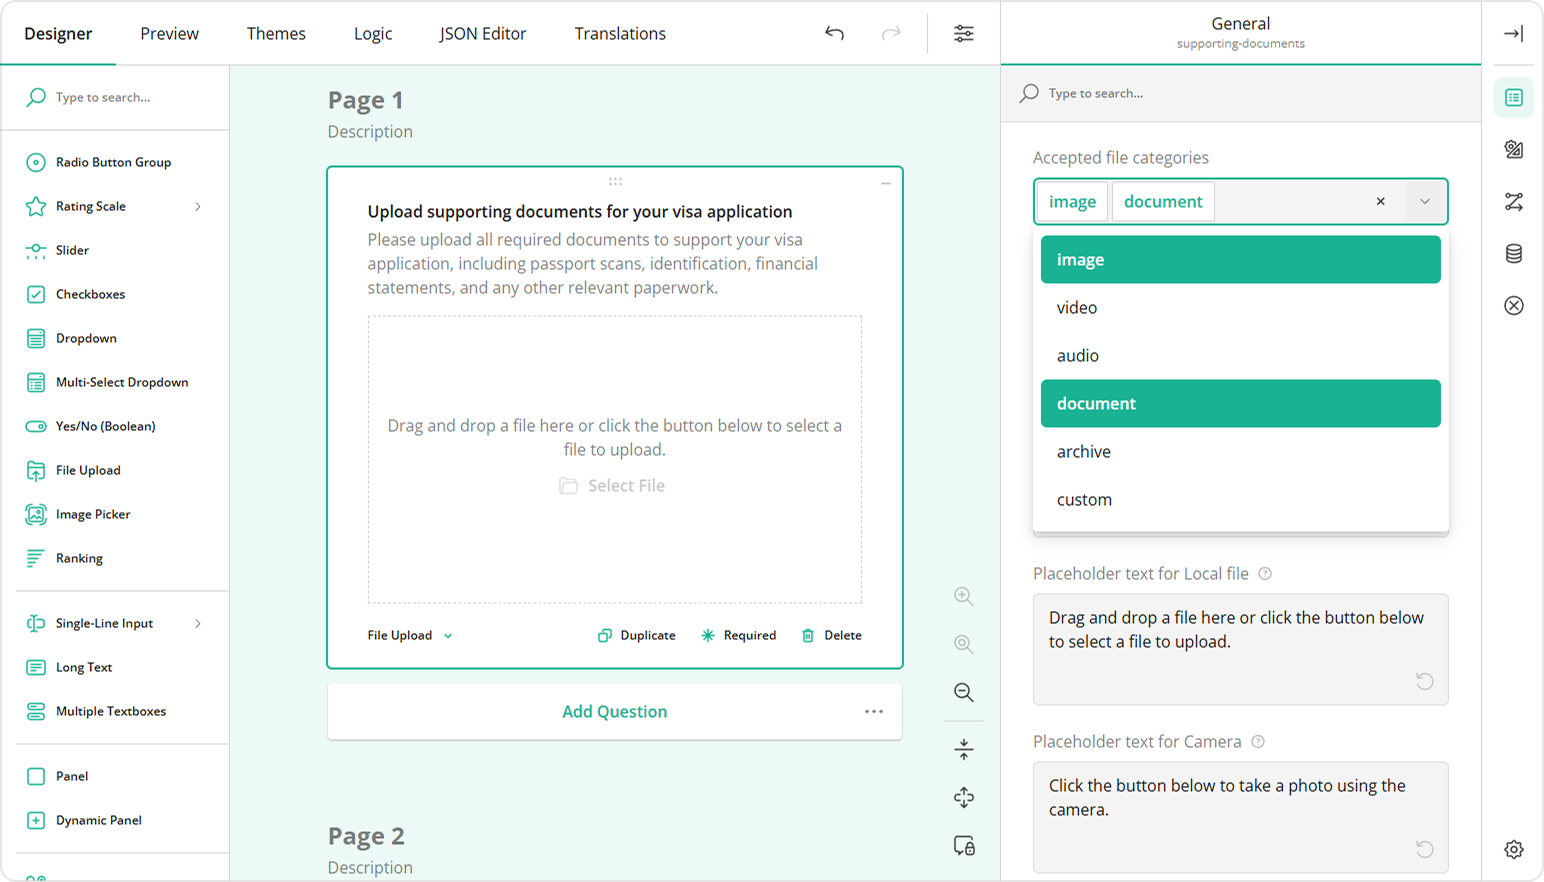
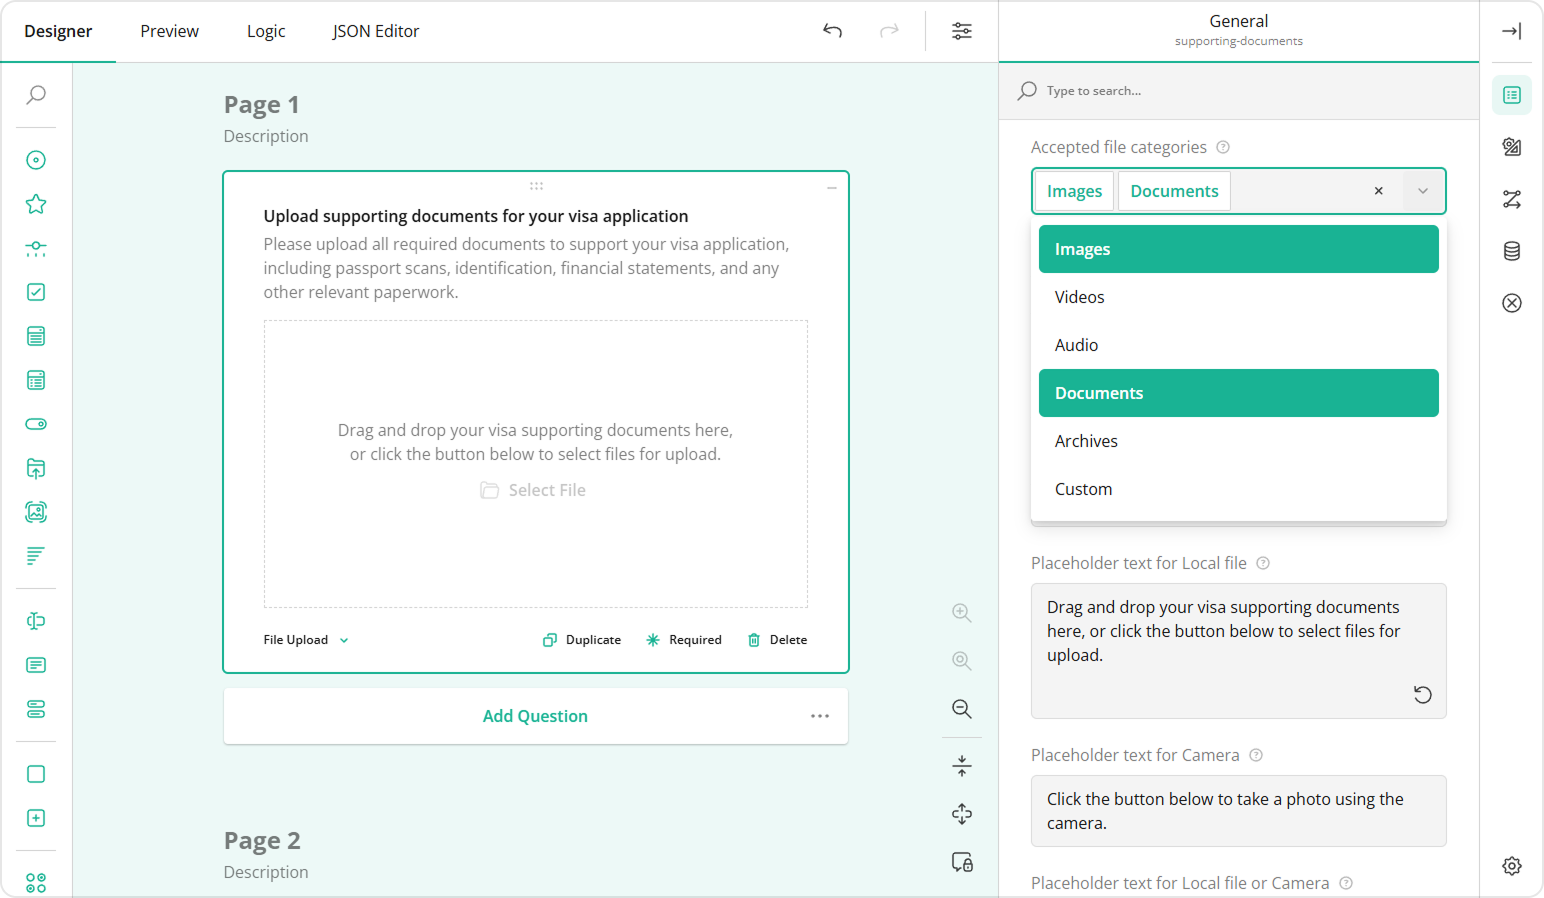
updated survey-creator docs [azurepipelines skip]

diff --git a/docs/end-user-guide-create-form-with-file-upload.md b/docs/end-user-guide-create-form-with-file-upload.md
@@ -1,54 +1,53 @@
 ---
 title: How to Create a Form with File Upload
-description: In this guide, we’ll show how to add and configure the File Upload question in SurveyJS form builder, including its file sources, upload limits, accepted file types, image settings, and other customization options.
+description: In this guide, we'll show how to add and configure the File Upload question in SurveyJS form builder, including its file sources, upload limits, accepted file types, image settings, and other customization options.
 ---
 
 # How to Create a Form with File Upload
 
 ## About File Upload Questions
 
-Adding a File Upload question to a form allows respondents to submit supporting files directly. This keeps all collected data in one place and reduces the need to request files separately via email or other channels. Respondents can provide documents, images, or other file types as part of their response.
+Adding a File Upload question to a form allows respondents to attach supporting files directly to the form. This keeps all collected data in one place and reduces the need to request files separately via email or other channels. Respondents can provide documents, images, or other file types as part of their response.
 
-SurveyJS is a [front-end solution](https://surveyjs.io/documentation/backend-integration) that allows you to collect data on the client side and send it to your own database. Because of this architecture, **there are no storage limits from our side**. Unlike many SaaS survey platforms such as Google Forms, when you use SurveyJS, you can allow your respondents to upload as many files as needed.
+Unlike with many SaaS survey platforms such as Google Forms, when you use SurveyJS, you store data in your own database. Because of this architecture, **there are no storage limits from our side**, and you can allow your respondents to upload as many files as needed.
 
-Our File Upload question comes with a wide range of customization options. These options let you control the file source, the number of files allowed, file types, file size limits, image display settings, and more. This guide explains all available file upload settings and how to configure them in a form.
+Our File Upload question comes with a wide range of customization options that let you control the file source, the number of files allowed, file types, file size limits, image display settings, and more. This guide explains all available file upload settings and how to configure them in a form.
 
 ## How to Add a File Upload Question to Your Form
 
-1. Drag a **File Upload** question to your form from the Toolbox.
+### Add the File Upload Element
 
-2. Assign a **Question name, title and description** to let respondents know what type of files to upload.<br>
-   <img src="../images/eud-title-description.png" alt='Add title and description to your File Upload question.' width="1544" height="942">
+Drag the **File Upload** question to your form from the Toolbox and specify the **Question name, title and description** to let respondents know what type of files to upload.
 
-4. Set the **File source type**:
+<img src="images/eud-title-description.png" alt='Add title and description to your File Upload question.' width="1544" height="942">
 
-   - **Local file**&mdash;uploads files from the respondent’s device.
+### Select the File Source Type
 
-   - **Camera**&mdash;takes a photo or video directly from a device camera.
+File Upload supports the following source types:
 
-   - **Local file or Camera**&mdash;allows the respondent to use both options.<br>
-   <img src="../images/eud-file-source-file.png" alt='Set a file source type for your File Upload question.' width="1544" height="878">
-   
-   When this option is enabled, the respondent will see two buttons that let them either activate their device camera or access their local files.<br>
-   <img src="../images/eud-local-file-camera.png" alt='File Upload question with two enabled file source types: Camera and Local file.' width="1544" height="770">
+- **Local file** - Uploads files from the respondent's device.
+- **Camera** - Takes a photo or video directly from a device camera.
+- **Local file or Camera** - Allows the respondent to use both options.
 
-5. **Enable multiple file upload** if you want respondents to select and add several files at once.
+<img src="images/eud-file-source-file.png" alt='Set a file source type for your File Upload question.' width="1544" height="878">
 
-6. **Set the maximum number of files** a respondent is allowed to upload. By default, this is 1000 items.<br>
-   <img src="../images/eud-max-files.png" alt='Enable multiple file upload and set the maximum number of files allowed.' width="1544" height="884">
+When the **Local file or Camera** option is enabled, the respondent sees two buttons that let them either activate their device camera or access their local files.
 
-8. **Preview uploaded images** enables or disables the preview of uploaded image files.<br>
-   <img src="../images/eud-disable-image-preview.png" alt='Uploaded images with disabled preview.' width="1544" height="768">
+<img src="images/eud-local-file-camera.png" alt='File Upload question with two enabled file source types: Local file and Camera.' width="1544" height="770">
 
-10. **Wait for upload to complete** prevents respondents from proceeding to the next page or submitting the form without waiting for all uploaded files to finish loading. We recommend keeping this setting enabled to prevent unintended data loss.
+### Enable Multiple File Upload
 
-11. **Confirm file deletion** displays a confirmation popup when a user removes an uploaded file.<br>
-   <img src="../images/confirmation-popup.png" alt='Confirmation popup shown when an uploaded file is being deleted.' width="1542" height="766">
+Select the **Enable multiple file upload** checkbox if you want respondents to attach more than one file to your form. Optionally, set the **Maximum number of files** a respondent is allowed to upload. By default, this is 1000 items.
 
-12. When **Store file content in JSON result as text** is enabled, all uploaded files, including images, are stored in the survey results JSON schema as Base64 URLs. If you are collecting large images, which could significantly increase the size of the result file, we recommend uploading images directly to your server and only saving image links in the survey results. Refer to this [demo guide](https://surveyjs.io/survey-creator/examples/file-upload/documentation) to learn more.
+<img src="images/eud-max-files.png" alt='Enable multiple file upload and set the maximum number of files allowed.' width="1544" height="884">
 
-13. **Accepted file categories** defines which file type groups respondents are allowed to upload. Please refer to the table below to see specific file types included in each category.<br>
-   <img src="../images/eud-accepted-file-types.png" alt='Select one or several file type categories that your File Upload question will accept.' width="1544" height="882">
+### Specify Accepted File Types
+
+**Accepted file categories** defines which file type groups respondents are allowed to upload.
+
+<img src="images/eud-accepted-file-types.png" alt='Select one or several file type categories that your File Upload question will accept.' width="1544" height="898">
+
+The table below shows specific file types included in each category.
 
 | Category | Allowed File Types |
 | ----- | ----- |
@@ -58,10 +57,13 @@ Our File Upload question comes with a wide range of customization options. These
 | Audio | .mp3, .m4a, .wav, .ogg, .flac, .wma, .aac |
 | Archives | .zip, .rar, .7z, .tar, .gz |
 
-Even though the built-in categories cover the most popular file extensions, you can enter additional file types separated by commas (e.g., .epc, .ai) in the **Additional file extensions** field.<br>
-   <img src="../images/custom-file-type.png" alt='Add custom file extentions that your File Upload question will accept.' width="1544" height="882">
+Even though the built-in categories cover the most popular file extensions, you can enter additional file types separated by commas (e.g., .epc, .ai) in the **Additional file extensions** field. Select **Custom** from **Accepted file categories** for this field to appear.
 
-11. **Maximum file size (in bytes)** allows you to limit the total size of uploaded files. The table below shows common file size units converted into bytes. 
+<img src="images/eud-custom-file-type.png" alt='Add custom file extentions that your File Upload question will accept.' width="1544" height="894">
+
+### Specify Maximum File Size
+
+**Maximum file size (in bytes)** allows you to limit the total size of uploaded files. The table below shows common file size units converted into bytes.
 
 | File Size | Bytes |
 | ----- | ----- |
@@ -69,14 +71,28 @@ Even though the built-in categories cover the most popular file extensions, you 
 | 1 MB | 1,048,576 B |
 | 1 GB | 1,073,741,824 B |
 
-When selected files exceed the allowed value, the respondent will be informed with a validation error message.<br>
-   <img src="../images/eud-file-exceeds-allowed-size.png" alt='The default validation error shown when the size of the selected files exceed the maximum allowed file size.' width="1544" height="770">
+When selected files exceed the allowed value, the respondent will be informed with a validation error message.
 
-12. **Image height** and **Image width** specify the display height and width of uploaded images in the preview and the actual height of images taken with the camera.
+<img src="images/eud-file-exceeds-allowed-size.png" alt='The default validation error shown when the size of the selected files exceed the maximum allowed file size.' width="1544" height="770">
 
-- If the **Enable multiple file upload** is disabled, the display height is limited by the preview area.
+### Configure File Preview
 
-- If the **Enable multiple file upload** is enabled, the display height is limited by the thumbnail area.
+**Preview uploaded images** enables or disables the preview of uploaded image files.
 
-13. You can optionally adjust the placeholder text for the File Upload question depending on the selected file source type.
+<img src="images/eud-disable-image-preview.png" alt='Uploaded images with disabled preview.' width="1544" height="768">
 
+**Image height** and **Image width** specify the display height and width of uploaded images in the preview, as well as the actual height of images taken with the camera. When multiple file upload is disabled, the image's display height is constrained by the preview area; when multiple file upload is enabled, it's constrained by the thumbnail area instead.
+
+### Other Settings
+
+
+- **Wait for upload to complete**\
+Prevents respondents from proceeding to the next page or submitting the form without waiting for all uploaded files to finish loading. We recommend keeping this setting enabled to prevent unintended data loss.
+
+- **Store file content in JSON result as text**\
+When this option is enabled, all uploaded files, including images, are stored in the survey results JSON schema as Base64 URLs. If you are collecting large images, which could significantly increase the size of the result JSON object, we recommend uploading images directly to your server and only saving image links in the survey results. Refer to this [demo guide](https://surveyjs.io/survey-creator/examples/file-upload/documentation) to learn more.
+
+- **Confirm file deletion**\
+Displays a confirmation popup when a user removes an uploaded file.
+
+<img src="images/eud-confirmation-popup.png" alt='Confirmation popup shown when an uploaded file is being deleted.' width="1544" height="770">

diff --git a/docs/end-user-guide-expression-syntax.md b/docs/end-user-guide-expression-syntax.md
@@ -47,17 +47,17 @@ Complex question types (Multiple Textboxes, Dynamic Panel, matrices) and multi-s
         <td colspan="3"><b>Checkboxes</b>, <b>Image Picker</b>, <b>Multiple Textboxes</b>, <b>Ranking</b></td>
       </tr>
       <tr>
-        <td><code>{questionid[index]}</code></td>
+        <td><code>{qid[index]}</code></td>
         <td>Use a zero-based index to access a selected item.</td>
-        <td><code>{question1[0]}</code></td>
+        <td><code>{q1[0]}</code></td>
       </tr>
       <tr>
         <td colspan="3"><b>Multiple Textboxes</b></td>
       </tr>
       <tr>
-        <td><code>{questionid.itemid}</code></td>
+        <td><code>{qid.itemid}</code></td>
         <td>Accesses an individual textbox.</td>
-        <td><code>{question1.item1}</code></td>
+        <td><code>{q1.item1}</code></td>
       </tr>
       <tr>
         <td colspan="3"><b>Single-Select Matrix</b></td>
@@ -68,6 +68,21 @@ Complex question types (Multiple Textboxes, Dynamic Panel, matrices) and multi-s
         <td><code>{row.column1}</code></td>
       </tr>
       <tr>
+        <td><code>{prevRow.columnid}</code></td>
+        <td>Use the <code>prevRow</code> prefix to access a cell in the previous matrix row.</td>
+        <td><code>{prevRow.column1}</code></td>
+      </tr>
+      <tr>
+        <td><code>{nextRow.columnid}</code></td>
+        <td>Use the <code>nextRow</code> prefix to access a cell in the next matrix row.</td>
+        <td><code>{nextRow.column1}</code></td>
+      </tr>
+      <tr>
+        <td><code>{matrixid[-1].columnid}</code><br><code>{matrixid[-2].columnid}</code><br>...</td>
+        <td>Use negative indices to access a cell in the last row, the row before the last, and so on.</td>
+        <td><code>{matrix1[-1].column1}</code></td>
+      </tr>
+      <tr>
         <td colspan="3"><b>Multi-Select Matrix</b></td>
       </tr>
       <tr>
@@ -76,14 +91,29 @@ Complex question types (Multiple Textboxes, Dynamic Panel, matrices) and multi-s
         <td><code>{row.column1}</code></td>
       </tr>
       <tr>
-        <td><code>{questionid.rowid.columnid}</code></td>
-        <td>Accesses an individual matrix cell.</td>
-        <td><code>{matrix.row1.column1}</code></td>
+        <td><code>{prevRow.columnid}</code></td>
+        <td>Use the <code>prevRow</code> prefix to access a cell in the previous matrix row.</td>
+        <td><code>{prevRow.column1}</code></td>
       </tr>
       <tr>
-        <td><code>{questionid-total.columnid}</code></td>
+        <td><code>{nextRow.columnid}</code></td>
+        <td>Use the <code>nextRow</code> prefix to access a cell in the next matrix row.</td>
+        <td><code>{nextRow.column1}</code></td>
+      </tr>
+      <tr>
+        <td><code>{matrixid[-1].columnid}</code><br><code>{matrixid[-2].columnid}</code><br>...</td>
+        <td>Use negative indices to access a cell in the last row, the row before the last, and so on.</td>
+        <td><code>{matrix1[-1].column1}</code></td>
+      </tr>
+      <tr>
+        <td><code>{matrixid.rowid.columnid}</code></td>
+        <td>Accesses an individual matrix cell.</td>
+        <td><code>{matrix1.row1.column1}</code></td>
+      </tr>
+      <tr>
+        <td><code>{matrixid-total.columnid}</code></td>
         <td>Accesses a cell in a total row.</td>
-        <td><code>{question1-total.column1}</code></td>
+        <td><code>{matrix1-total.column1}</code></td>
       </tr>
       <tr>
         <td colspan="3"><b>Dynamic Matrix</b></td>
@@ -94,27 +124,57 @@ Complex question types (Multiple Textboxes, Dynamic Panel, matrices) and multi-s
         <td><code>{row.column1}</code></td>
       </tr>
       <tr>
+        <td><code>{prevRow.columnid}</code></td>
+        <td>Use the <code>prevRow</code> prefix to access a cell in the previous matrix row.</td>
+        <td><code>{prevRow.column1}</code></td>
+      </tr>
+      <tr>
+        <td><code>{nextRow.columnid}</code></td>
+        <td>Use the <code>nextRow</code> prefix to access a cell in the next matrix row.</td>
+        <td><code>{nextRow.column1}</code></td>
+      </tr>
+      <tr>
         <td><code>{dmatrixid[rowindex].columnid}</code></td>
         <td>Use a zero-based row index to access a specific cell.</td>
         <td><code>{dmatrix1[0].column1}</code></td>
       </tr>
       <tr>
+        <td><code>{dmatrixid[-1].columnid}</code><br><code>{dmatrixid[-2].columnid}</code><br>...</td>
+        <td>Use negative indices to access a cell in the last row, the row before the last, and so on.</td>
+        <td><code>{dmatrix1[-1].column1}</code></td>
+      </tr>
+      <tr>
         <td colspan="3"><b>Dynamic Panel</b></td>
       </tr>
       <tr>
-        <td><code>{panel.questionid}</code></td>
-        <td>Use the <code>panel</code> prefix to access a question within the same panel.</td>
-        <td><code>{panel.question1}</code></td>
+        <td><code>{panel.qid}</code></td>
+        <td>Use the <code>panel</code> prefix to access a question in the same panel.</td>
+        <td><code>{panel.q1}</code></td>
       </tr>
       <tr>
-        <td><code>{parentPanel.questionid}</code></td>
-        <td>Use the <code>parentPanel</code> prefix to access a question within a parent Dynamic Panel. Applies when one Dynamic Panel question is nested in another.</td>
-        <td><code>{parentPanel.question1}</code></td>
+        <td><code>{prevPanel.qid}</code></td>
+        <td>Use the <code>prevPanel</code> prefix to access a question in the previous panel.</td>
+        <td><code>{prevPanel.q1}</code></td>
       </tr>
       <tr>
-        <td><code>{dpanelid[panelindex].questionid}</code></td>
-        <td>Use a zero-based panel index to access a question within a specific panel.</td>
-        <td><code>{dpanel1[0].question1}</code></td>
+        <td><code>{nextPanel.qid}</code></td>
+        <td>Use the <code>nextPanel</code> prefix to access a question in the next panel.</td>
+        <td><code>{nextPanel.q1}</code></td>
+      </tr>
+      <tr>
+        <td><code>{parentPanel.qid}</code></td>
+        <td>Use the <code>parentPanel</code> prefix to access a question in a parent Dynamic Panel. Applies when one Dynamic Panel question is nested in another.</td>
+        <td><code>{parentPanel.q1}</code></td>
+      </tr>
+      <tr>
+        <td><code>{dpanelid[panelindex].qid}</code></td>
+        <td>Use a zero-based panel index to access a question in a specific panel.</td>
+        <td><code>{dpanel1[0].q1}</code></td>
+      </tr>
+      <tr>
+        <td><code>{dpanelid[-1].qid}</code><br><code>{dpanelid[-2].qid}</code><br>...</td>
+        <td>Use negative indices to access a question in the last panel, the panel before the last, and so on.</td>
+        <td><code>{dpanel1[-1].q1}</code></td>
       </tr>
     </tbody>
   </table>
@@ -226,7 +286,7 @@ Calculation functions allow you to perform computations within your survey. All 
 ### Logical Functions
 
 Expressions support one logical function&mdash;`iif`. It returns one value or the other based on whether a specified condition is true or false.      
-Example: `"iif({question1} > 20, 'High', 'Low')"`
+Example: `"iif({q1} > 20, 'High', 'Low')"`
 
 ### Date Functions
 
